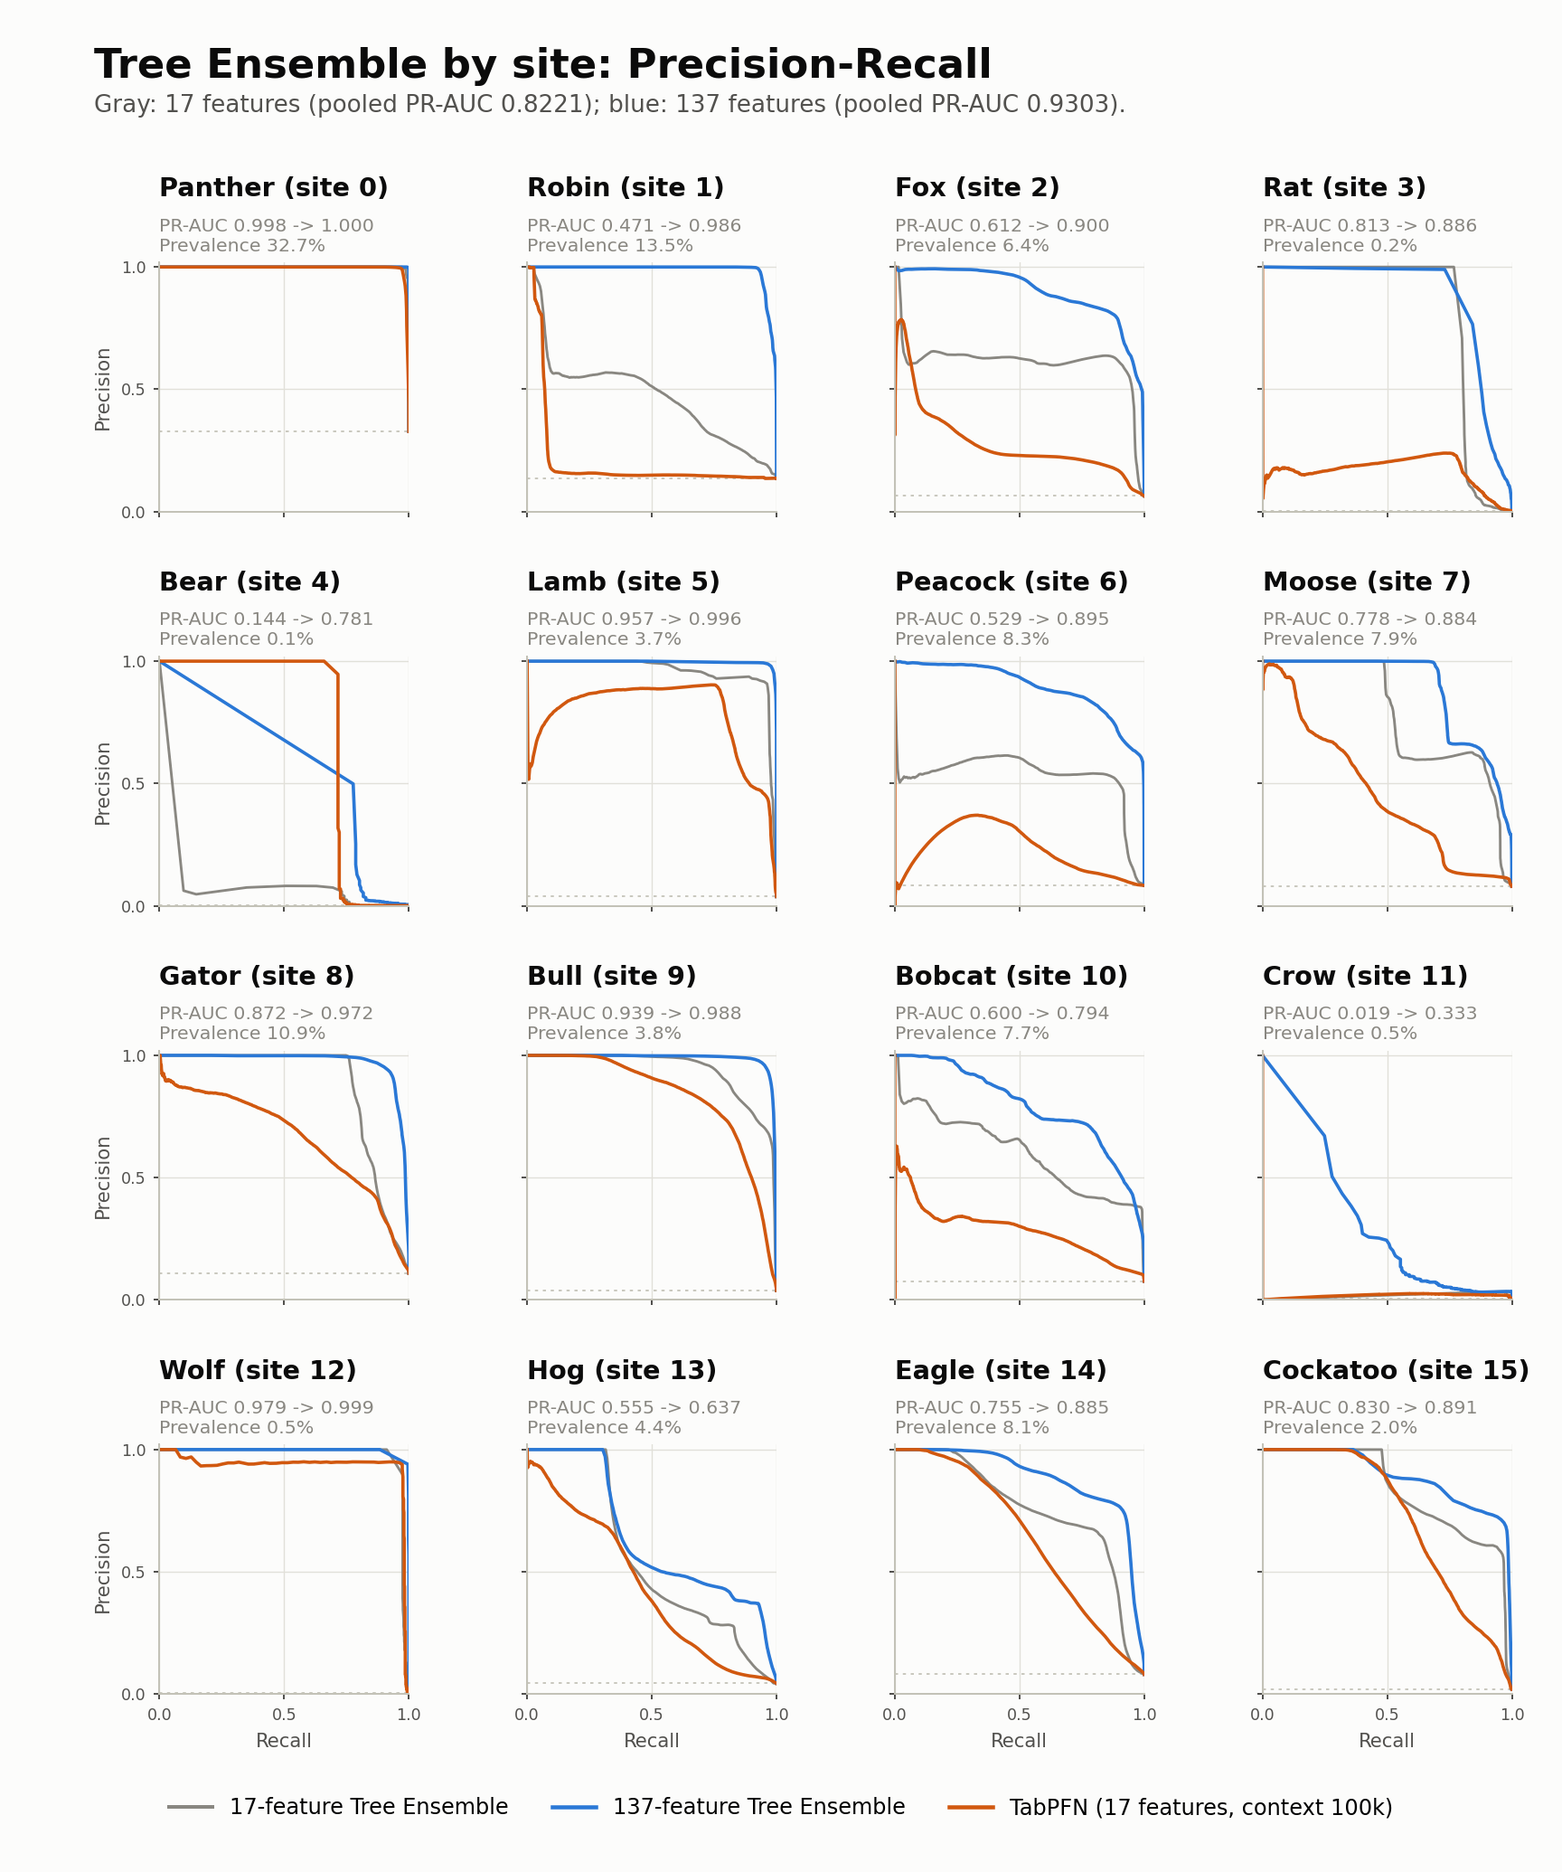
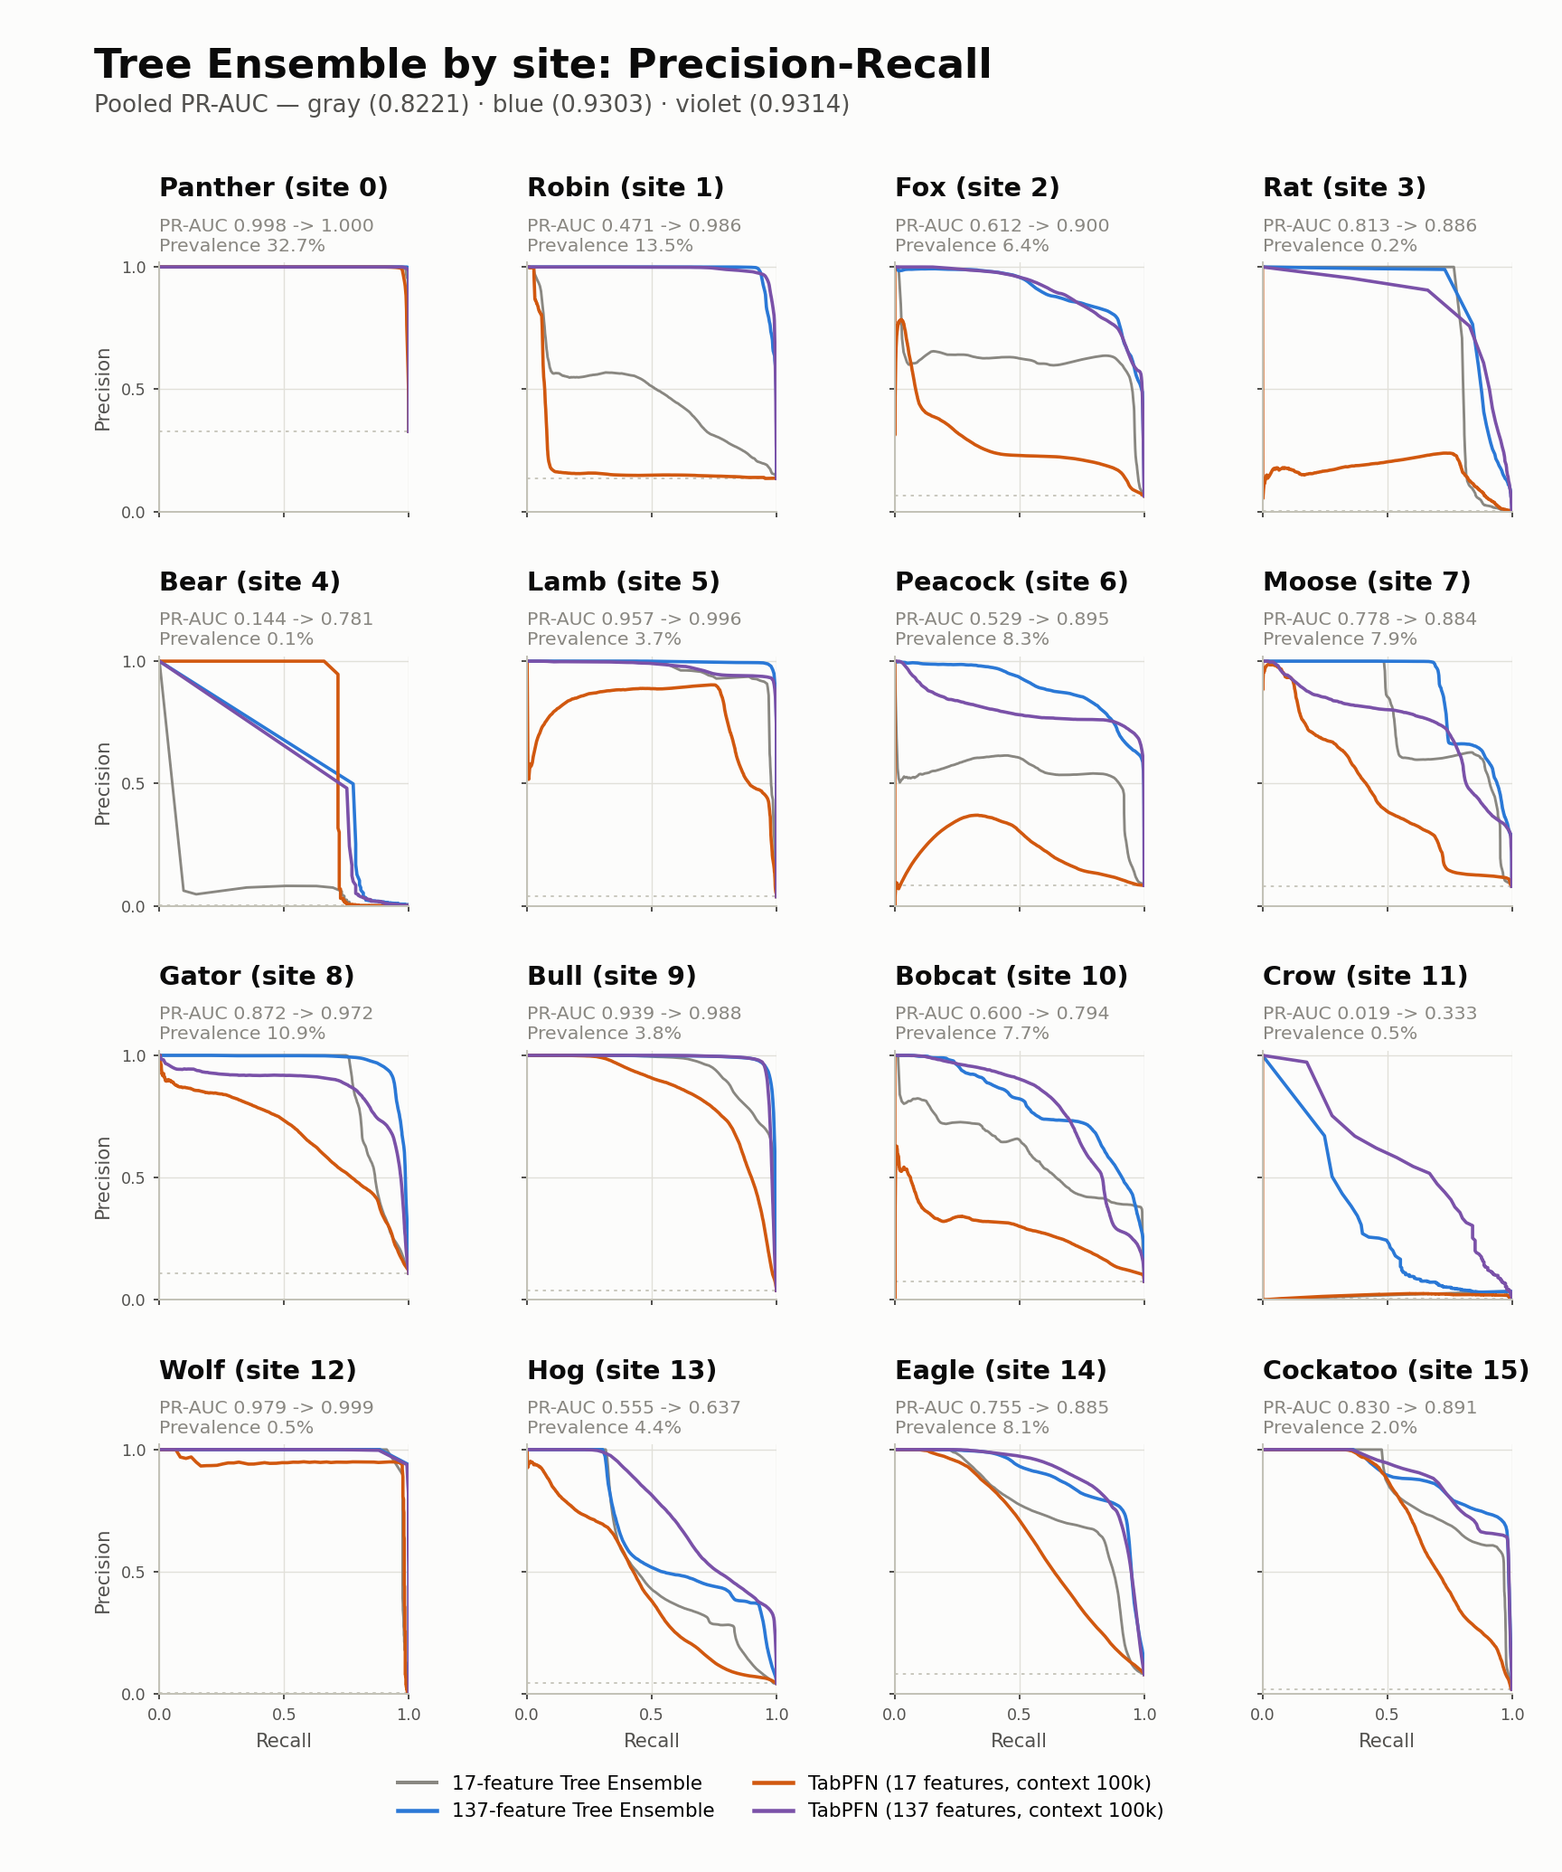
Add 137-feature TabPFN full-holdout line to the M3 figures
Scored the remaining 7,401,924 holdout rows for the 137-feature TabPFN
(n=8, context 100k) via a 2-slot pool scheduler, merged all shards through
the four identity gates, and added the line (violet) to the four M3
*_with_tabpfn figures. Pooled ROC-AUC 0.9919 / PR-AUC 0.9314 — on par with
the 137-feature Tree Ensemble.

Also fixes the recovery supervisor forwarding -ShardRootName so a 137-batch
shard's auto-recovery redeploys its own inputs instead of the per-site default.

Claude-Session: https://claude.ai/code/session_01KCrHDH7ChB2CKjX62NeCUj

diff --git a/scripts/plot_m3_tree_ensemble_by_site.py b/scripts/plot_m3_tree_ensemble_by_site.py
@@ -39,6 +39,7 @@ AXIS = "#c3c2b7"
 BASELINE = "#898781"
 ENGINEERED = "#2a78d6"
 TABPFN = "#d1580f"
+TABPFN137 = "#7a51a8"
 
 DEFAULT_M3_PREDICTIONS = PROC / "m3_figure_predictions_50_50.npz"
 DEFAULT_SITE_PREDICTIONS = (
@@ -48,6 +49,7 @@ DEFAULT_BASELINE_PREDICTIONS = PROC / "m3_17_feature_ensemble_predictions.npz"
 DEFAULT_TABPFN_PREDICTIONS = (
     PROC / "m5_tabpfn_distributed_context100000_predictions.npz"
 )
+DEFAULT_TABPFN_137_PREDICTIONS = PROC / "m5_tabpfn_137_full_test_n8_predictions.npz"
 DEFAULT_ROC_OUTPUT = (
     ROOT / "docs" / "reports" / "assets" / "m3" / "m3_tree_ensemble_by_site_roc.png"
 )
@@ -95,6 +97,8 @@ class SiteResult:
     engineered_precision_recall: Curve
     tabpfn_roc: Curve | None = None
     tabpfn_precision_recall: Curve | None = None
+    tabpfn137_roc: Curve | None = None
+    tabpfn137_precision_recall: Curve | None = None
 
 
 def _compressed(
@@ -182,12 +186,25 @@ def load_tabpfn_scores(
     return score
 
 
+def _curve_pair(y_site: np.ndarray, score_site: np.ndarray) -> tuple[Curve, Curve]:
+    """Return (ROC, Precision-Recall) curves for one site's scores."""
+    fpr, tpr, _ = roc_curve(y_site, score_site)
+    fpr, tpr = _compressed(fpr, tpr)
+    prec, rec, _ = precision_recall_curve(y_site, score_site)
+    rec, prec = _compressed(rec, prec)
+    return (
+        Curve(fpr, tpr, float(roc_auc_score(y_site, score_site))),
+        Curve(rec, prec, float(average_precision_score(y_site, score_site))),
+    )
+
+
 def compute_site_results(
     y_true: np.ndarray,
     baseline_ensemble: np.ndarray,
     engineered_ensemble: np.ndarray,
     site_id: np.ndarray,
     tabpfn: np.ndarray | None = None,
+    tabpfn137: np.ndarray | None = None,
 ) -> list[SiteResult]:
     results: list[SiteResult] = []
     for value in range(16):
@@ -201,20 +218,12 @@ def compute_site_results(
         tabpfn_roc: Curve | None = None
         tabpfn_precision_recall: Curve | None = None
         if tabpfn is not None:
-            tabpfn_site = tabpfn[mask]
-            tabpfn_fpr, tabpfn_tpr, _ = roc_curve(y_site, tabpfn_site)
-            tabpfn_fpr, tabpfn_tpr = _compressed(tabpfn_fpr, tabpfn_tpr)
-            tabpfn_prec, tabpfn_rec, _ = precision_recall_curve(y_site, tabpfn_site)
-            tabpfn_rec, tabpfn_prec = _compressed(tabpfn_rec, tabpfn_prec)
-            tabpfn_roc = Curve(
-                tabpfn_fpr,
-                tabpfn_tpr,
-                float(roc_auc_score(y_site, tabpfn_site)),
-            )
-            tabpfn_precision_recall = Curve(
-                tabpfn_rec,
-                tabpfn_prec,
-                float(average_precision_score(y_site, tabpfn_site)),
+            tabpfn_roc, tabpfn_precision_recall = _curve_pair(y_site, tabpfn[mask])
+        tabpfn137_roc: Curve | None = None
+        tabpfn137_precision_recall: Curve | None = None
+        if tabpfn137 is not None:
+            tabpfn137_roc, tabpfn137_precision_recall = _curve_pair(
+                y_site, tabpfn137[mask]
             )
 
         baseline_fpr, baseline_tpr, _ = roc_curve(y_site, baseline_site)
@@ -267,6 +276,8 @@ def compute_site_results(
                 ),
                 tabpfn_roc=tabpfn_roc,
                 tabpfn_precision_recall=tabpfn_precision_recall,
+                tabpfn137_roc=tabpfn137_roc,
+                tabpfn137_precision_recall=tabpfn137_precision_recall,
             )
         )
     return results
@@ -309,6 +320,7 @@ def render(
             baseline_curve = result.baseline_roc
             engineered_curve = result.engineered_roc
             tabpfn_curve = result.tabpfn_roc
+            tabpfn137_curve = result.tabpfn137_roc
             ax.plot(
                 [0, 1],
                 [0, 1],
@@ -323,6 +335,7 @@ def render(
             baseline_curve = result.baseline_precision_recall
             engineered_curve = result.engineered_precision_recall
             tabpfn_curve = result.tabpfn_precision_recall
+            tabpfn137_curve = result.tabpfn137_precision_recall
             prevalence = result.anomalies / result.rows
             ax.axhline(
                 prevalence,
@@ -355,6 +368,13 @@ def render(
                 color=TABPFN,
                 linewidth=1.45,
             )
+            if tabpfn137_curve is not None:
+                ax.plot(
+                    tabpfn137_curve.x,
+                    tabpfn137_curve.y,
+                    color=TABPFN137,
+                    linewidth=1.45,
+                )
         ax.set_title(
             f"{names[result.site_id]} (site {result.site_id})",
             loc="left",
@@ -387,13 +407,22 @@ def render(
             )
 
     title_metric = "ROC" if curve_type == "roc" else "Precision-Recall"
-    subtitle = (
-        "Gray: 17 features (pooled ROC-AUC 0.9663); "
-        "blue: 137 features (pooled ROC-AUC 0.9918)."
-        if curve_type == "roc"
-        else "Gray: 17 features (pooled PR-AUC 0.8221); "
-        "blue: 137 features (pooled PR-AUC 0.9303)."
-    )
+    if curve_type == "roc":
+        subtitle = (
+            "Gray: 17 features (pooled ROC-AUC 0.9663); "
+            "blue: 137 features (pooled ROC-AUC 0.9918)."
+        )
+        if include_tabpfn:
+            subtitle = (
+                "Pooled ROC-AUC — gray (0.9663) · blue (0.9918) · violet (0.9919)"
+            )
+    else:
+        subtitle = (
+            "Gray: 17 features (pooled PR-AUC 0.8221); "
+            "blue: 137 features (pooled PR-AUC 0.9303)."
+        )
+        if include_tabpfn:
+            subtitle = "Pooled PR-AUC — gray (0.8221) · blue (0.9303) · violet (0.9314)"
     fig.suptitle(
         f"Tree Ensemble by site: {title_metric}",
         x=0.06,
@@ -445,14 +474,25 @@ def render(
                 label="TabPFN (17 features, context 100k)",
             )
         )
+        if results[0].tabpfn137_roc is not None:
+            handles.append(
+                Line2D(
+                    [0],
+                    [0],
+                    color=TABPFN137,
+                    linewidth=1.8,
+                    label="TabPFN (137 features, context 100k)",
+                )
+            )
+    # More entries need a smaller face and a wrapped row to stay readable.
+    legend_fontsize = {2: 10.5, 3: 9.6}.get(len(handles), 8.6)
     fig.legend(
         handles=handles,
         loc="lower center",
         bbox_to_anchor=(0.5, 0.018),
-        ncol=len(handles),
+        ncol=2 if len(handles) >= 4 else len(handles),
         frameon=False,
-        # Three entries need the extra width a slightly smaller face buys.
-        fontsize=10.5 if len(handles) == 2 else 9.6,
+        fontsize=legend_fontsize,
     )
     output.parent.mkdir(parents=True, exist_ok=True)
     fig.savefig(output, dpi=180, facecolor=SURFACE, edgecolor="none")
@@ -476,6 +516,11 @@ def parse_args() -> argparse.Namespace:
         "--tabpfn-predictions",
         type=Path,
         default=DEFAULT_TABPFN_PREDICTIONS,
+    )
+    parser.add_argument(
+        "--tabpfn-137-predictions",
+        type=Path,
+        default=DEFAULT_TABPFN_137_PREDICTIONS,
     )
     parser.add_argument(
         "--tabpfn-roc-output",
@@ -516,12 +561,16 @@ def main() -> None:
     if args.skip_tabpfn:
         return
     tabpfn = load_tabpfn_scores(args.tabpfn_predictions, y_true, site_id)
+    tabpfn137 = None
+    if args.tabpfn_137_predictions.is_file():
+        tabpfn137 = load_tabpfn_scores(args.tabpfn_137_predictions, y_true, site_id)
     tabpfn_results = compute_site_results(
         y_true,
         baseline_ensemble,
         engineered_ensemble,
         site_id,
         tabpfn=tabpfn,
+        tabpfn137=tabpfn137,
     )
     render(
         tabpfn_results,

diff --git a/scripts/plot_m3_figures.py b/scripts/plot_m3_figures.py
@@ -54,12 +54,14 @@ MODEL_ORDER = (
 )
 FEATURE_BASELINE_KEY = "m3_1_ensemble"
 TABPFN_KEY = "tabpfn"
+TABPFN_137_KEY = "tabpfn_137"
 DEFAULT_17_FEATURE_ENSEMBLE_PREDICTIONS = (
     PROC / "m3_17_feature_ensemble_predictions.npz"
 )
 DEFAULT_TABPFN_PREDICTIONS = (
     PROC / "m5_tabpfn_distributed_context100000_predictions.npz"
 )
+DEFAULT_TABPFN_137_PREDICTIONS = PROC / "m5_tabpfn_137_full_test_n8_predictions.npz"
 
 
 def _style_axis(ax: plt.Axes, *, horizontal_grid: bool = True) -> None:
@@ -676,11 +678,15 @@ def add_17_feature_ensemble_comparison(
     }
 
 
-def add_tabpfn_comparison(data: dict[str, Any], predictions_path: Path) -> None:
-    """Add the merged distributed TabPFN metrics and curves.
+def add_tabpfn_comparison(
+    data: dict[str, Any], predictions_path: Path, *, key: str = TABPFN_KEY
+) -> None:
+    """Add a merged TabPFN line's metrics and curves under ``key``.
 
-    TabPFN scores the same 17 baseline features as ``FEATURE_BASELINE_KEY``, so
-    the gray curve -- not the 137-feature blue one -- is its matched comparison.
+    The 17-feature TabPFN (``TABPFN_KEY``) scores the same 17 baseline features as
+    ``FEATURE_BASELINE_KEY``; the 137-feature TabPFN (``TABPFN_137_KEY``) scores
+    the same 137 features as the blue Tree Ensemble. Both share the plotted row
+    order, so each drops straight onto these figures.
     """
     with np.load(predictions_path) as predictions:
         required = {"anomaly", "tabpfn"}
@@ -701,11 +707,11 @@ def add_tabpfn_comparison(data: dict[str, Any], predictions_path: Path) -> None:
 
     fpr, tpr, _ = roc_curve(y_true, score)
     precision, recall, _ = precision_recall_curve(y_true, score)
-    data["metrics"][TABPFN_KEY] = {
+    data["metrics"][key] = {
         "roc_auc": float(roc_auc_score(y_true, score)),
         "pr_auc": float(average_precision_score(y_true, score)),
     }
-    data["curves"][TABPFN_KEY] = {
+    data["curves"][key] = {
         "roc": {"x": fpr, "y": tpr},
         "precision_recall": {"x": recall, "y": precision},
     }
@@ -750,6 +756,14 @@ def render_discrimination_curve(
         ]
         if comparison == "feature_engineering_tabpfn":
             series.append((TABPFN_KEY, "TabPFN (17 features, context 100k)", "#d1580f"))
+            if TABPFN_137_KEY in data["curves"]:
+                series.append(
+                    (
+                        TABPFN_137_KEY,
+                        "TabPFN (137 features, context 100k)",
+                        "#7a51a8",
+                    )
+                )
         title_prefix = "Feature-Engineering Contribution"
         subtitle = "Tree Ensemble on the same final 50/50 building holdout · 17 versus 137 features"
 
@@ -800,13 +814,12 @@ def render_discrimination_curve(
         columnspacing=1.4,
         handlelength=2.4,
     )
-    # A third stacked legend row needs a little more room beneath the axes.
-    fig.subplots_adjust(
-        left=0.14,
-        right=0.96,
-        top=0.78,
-        bottom=0.26 if len(series) == 3 and comparison != "models" else 0.24,
-    )
+    # Each extra stacked legend row needs a little more room beneath the axes.
+    if comparison == "models":
+        legend_bottom = 0.24
+    else:
+        legend_bottom = {2: 0.24, 3: 0.26, 4: 0.30}.get(len(series), 0.24)
+    fig.subplots_adjust(left=0.14, right=0.96, top=0.78, bottom=legend_bottom)
     _save(fig, path)
 
 
@@ -1157,6 +1170,11 @@ def parse_args() -> argparse.Namespace:
         default=DEFAULT_TABPFN_PREDICTIONS,
     )
     parser.add_argument(
+        "--tabpfn-137-predictions",
+        type=Path,
+        default=DEFAULT_TABPFN_137_PREDICTIONS,
+    )
+    parser.add_argument(
         "--skip-tabpfn",
         action="store_true",
         help="render only the two-series feature-engineering figures",
@@ -1172,6 +1190,8 @@ def main() -> None:
     add_17_feature_ensemble_comparison(data, args.baseline_ensemble_predictions)
     if not args.skip_tabpfn and args.tabpfn_predictions.is_file():
         add_tabpfn_comparison(data, args.tabpfn_predictions)
+        if args.tabpfn_137_predictions.is_file():
+            add_tabpfn_comparison(data, args.tabpfn_137_predictions, key=TABPFN_137_KEY)
     figures = {
         "confusion": args.asset_dir / "m3_tree_ensemble_confusion_matrix.png",
         "value_change": args.asset_dir

diff --git a/docs/handoffs/2026-07-25-tabpfn-137feature-full-holdout-complete.md b/docs/handoffs/2026-07-25-tabpfn-137feature-full-holdout-complete.md
@@ -1,0 +1,71 @@
+# 2026-07-25 TabPFN 137-feature 全 holdout 完成 handoff
+
+這份 handoff 記錄把 137-feature TabPFN（n=8、context 100k）補滿**整個 50/50 building holdout**
+並加上 M3 四張圖第四條線的完整執行。承接
+`docs/reference/m5-tabpfn-137feature-full-holdout-runbook.md` 與
+`docs/handoffs/2026-07-25-tabpfn-estimator-sweep-and-137feature-results.md`。
+
+## 1. 一句話
+
+137-feature TabPFN 已跑完全部 10,137,155 列、通過四關身分驗證合併，並加上 M3 四張圖；
+全 holdout pooled **ROC-AUC 0.9919 / PR-AUC 0.9314**，與 137-feature 樹 ensemble
+（0.9918 / 0.9303）幾乎完全追平，遠勝 17-feature TabPFN（0.9120 / 0.6639）。
+
+## 2. 結果
+
+| 線 | pooled ROC-AUC | pooled PR-AUC |
+|---|---:|---:|
+| 17-feature 樹 ensemble（gray） | 0.9663 | 0.8221 |
+| 137-feature 樹 ensemble（blue） | 0.9918 | 0.9303 |
+| 17-feature TabPFN（orange） | 0.9120 | 0.6639 |
+| **137-feature TabPFN（violet，本次）** | **0.9919** | **0.9314** |
+
+**結論**：在相同 137 features 下 TabPFN 追平樹 ensemble，再次坐實 estimator-sweep handoff 的
+歸因修正 —— TabPFN 先前的落後主要來自**特徵不足**，而非 in-context learning 的結構劣勢。
+
+## 3. 產物
+
+- 合併輸出（gitignored，本機）：`data/processed/m5_tabpfn_137_full_test_n8_predictions.npz`
+  （10,137,155 列，637,397 anomalies，分數 finite [2.6e-5, 0.99999]，canonical 列序對齊）。
+- 四張更新圖（第四條 violet 線）：
+  - `docs/reports/assets/m3/m3_feature_engineering_roc_with_tabpfn.png`
+  - `docs/reports/assets/m3/m3_feature_engineering_precision_recall_with_tabpfn.png`
+  - `docs/reports/assets/m3/m3_tree_ensemble_by_site_roc_with_tabpfn.png`
+  - `docs/reports/assets/m3/m3_tree_ensemble_by_site_precision_recall_with_tabpfn.png`
+
+## 4. 執行方式：pool scheduler 取代 batch barrier
+
+原 `run_m5_tabpfn_137_batches.ps1` 是**逐 batch 阻塞**（一批的 head/tail 都完成才進下一批），
+任一 shard 落後就讓另一張 A100 空等、把延誤串成整體延誤。本次改用 **2-slot 貪婪 pool 排程**：
+任一 slot 空出就啟動下一個 shard，兩張 A100 全程滿載到收尾。每個 shard 在第一個 chunk 就以
+`site_id ⊆ 該批 site 集合` 驗證資料正確。
+
+- sites 1/2/3 先前已完成（per-site shard）。
+- batch 0–5（12 shard）本次跑完；合併涵蓋 sites 1/2/3 + 6 batch = 全 holdout。
+- 收尾：0 個殘留 session、無 CU 乾燒。
+
+## 5. 修掉的 bug（重要）
+
+`scripts/supervise_m5_tabpfn_site_shard.ps1` 的 `Invoke-Recovery` **未把 `-ShardRootName`
+傳給 deploy**，自癒時會 fallback 到 per-site 預設（`m5_tabpfn_site<Site>_...`），
+把**已完成的 Site-1 資料**部署到 batch session、產出標成本批卻是別批的分數。曾在 b1/tail 踩到
+（手動重部署與舊 buggy supervisor 相撞）。修法：`Invoke-Recovery` 明確 forward
+`-ShardRootName $ShardRootName`。
+
+**操作守則**：有 live supervisor 的 shard 不要手動重部署 —— 先殺/換掉 supervisor，
+或讓（已修好的）supervisor 自己救。
+
+## 6. 繪圖腳本改動
+
+`scripts/plot_m3_figures.py` 與 `scripts/plot_m3_tree_ensemble_by_site.py` 各加一條
+137-feature TabPFN 線（key `tabpfn_137`，色 `#7a51a8`，來源
+`m5_tabpfn_137_full_test_n8_predictions.npz`），維持既有邏輯、只加線與圖例，仍寫入
+既有 `*_with_tabpfn.png`。by-site 副標改為精簡的
+`Pooled ROC-AUC — gray (0.9663) · blue (0.9918) · violet (0.9919)`（PR 同理）。
+
+## 7. Decision
+
+137-feature TabPFN 全 holdout 推論完成、驗證通過、四張圖到位，pooled AUC 與樹 ensemble 齊平。
+執行改採 pool 排程避免 straggler 拖累整體；supervisor 的 wrong-ShardRootName 自癒 bug 已修。
+剩餘可選工作：若要把 17-feature TabPFN（orange）也列入 by-site 副標可再加，但目前副標聚焦
+gray/blue/violet 三條主線。
